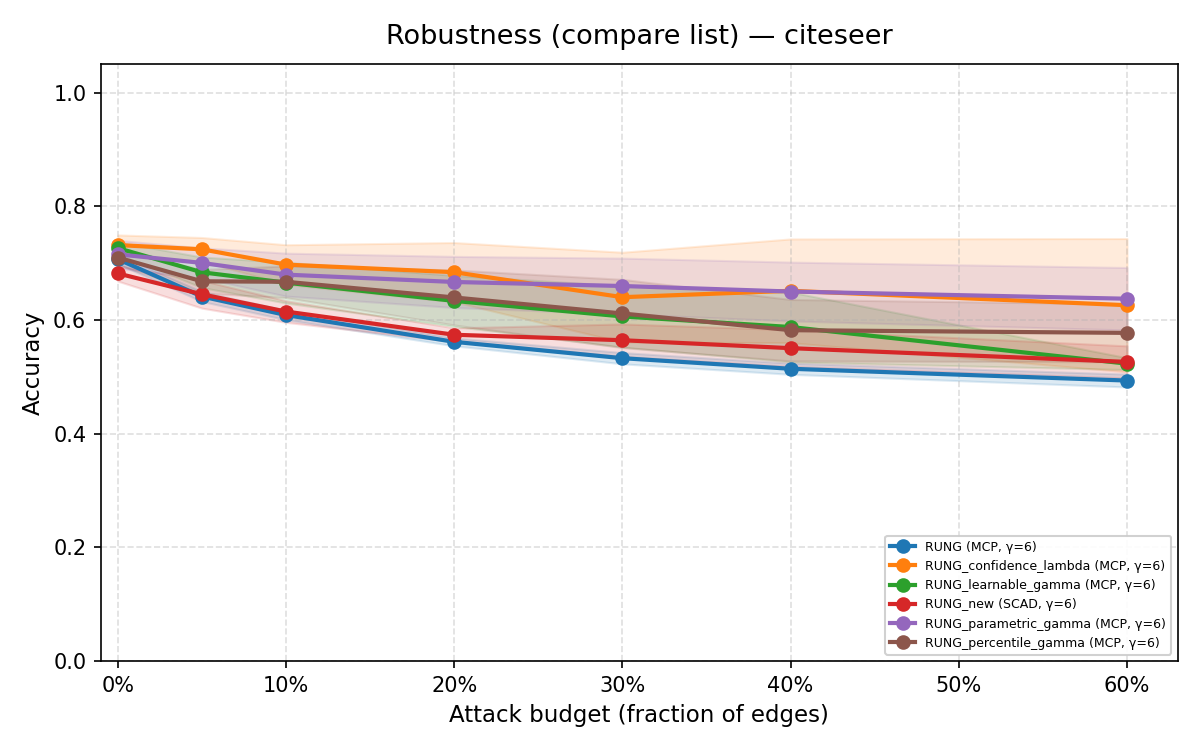
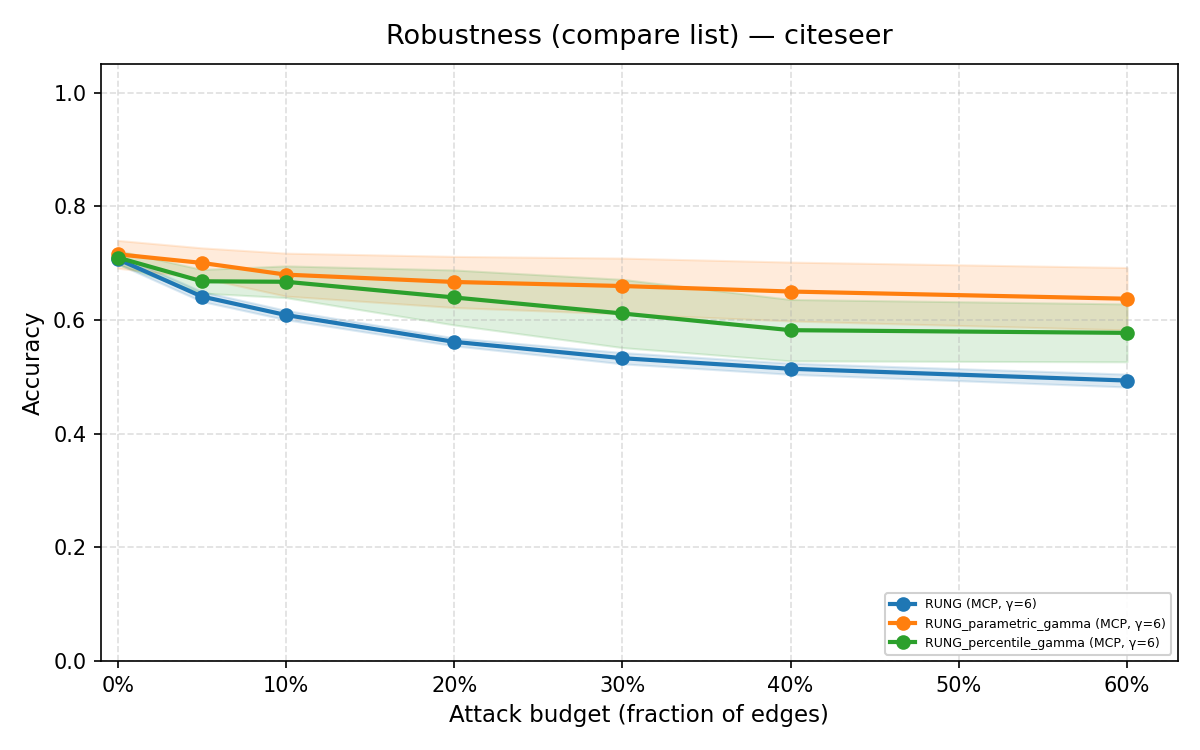
fix plot compare

Changed region(s): [[0.0925, 0.3067, 0.9558, 0.5213], [0.74, 0.7053, 0.9867, 0.8587]]

diff --git a/plot_logs.py b/plot_logs.py
@@ -67,21 +67,33 @@ _RE_ATK_LINE   = re.compile(r"^\s*Attacked:\s*([\d.]+)[^±]*±([\d.]+)", re.UNIC
 # ---------------------------------------------------------------------------
 
 def _attack_label(stem: str) -> str:
+    """Convert an attack log filename stem into a readable label.
+
+    Supported formats:
+      - RUNG_normMCP_gamma6.0
+      - RUNG_new_SCAD_normSCAD_gamma6.0
+      - RUNG_parametric_gamma_MCP_6.0
+      - (other similar <model>_<norm>_<gamma> patterns)
+
+    The returned label is like:
+      RUNG (MCP, γ=6.0)
+      RUNG_new_SCAD (SCAD, γ=6.0)
     """
-    Convert an attack log filename stem such as
-        RUNG_normMCP_gamma6.0
-        RUNG_new_SCAD_normSCAD_gamma6.0
-    into a short readable label:
-        RUNG (MCP, γ=6.0)
-        RUNG_new_SCAD (SCAD, γ=6.0)
-    """
+    # Preferred format: <model>_norm<norm>_gamma<gamma>
     m = re.match(r"^(.+?)_norm(.+?)_gamma([\d.]+)$", stem)
     if m:
         model, norm, gamma = m.group(1), m.group(2), m.group(3)
-        # drop trailing .0 from gamma for display
-        gamma_str = gamma.rstrip("0").rstrip(".")
-        return f"{model} ({norm}, γ={gamma_str})"
-    return stem   # fallback: use raw stem
+    else:
+        # Fallback format: <model>_<norm>_<gamma>
+        parts = stem.rsplit("_", 2)
+        if len(parts) == 3:
+            model, norm, gamma = parts
+        else:
+            return stem   # unknown format; keep raw
+
+    # drop trailing .0 from gamma for display
+    gamma_str = gamma.rstrip("0").rstrip(".")
+    return f"{model} ({norm}, γ={gamma_str})"
 
 
 def _clean_label(stem: str) -> str:
@@ -364,13 +376,19 @@ def _read_compare_list(path: Path) -> list[str]:
 
 
 def _filter_labels(labels: list[str], queries: list[str]) -> list[str]:
-    """Return subset of labels that match any query (case-insensitive substring)."""
+    """Return subset of labels that match any query.
+
+    Matching is done against the *base model name* (label text before the first " ("),
+    which corresponds to the model key used in logs. Queries are treated as case-\
+    insensitive exact matches against that base name.
+    """
     if not queries:
         return []
+    query_set = {q.lower() for q in queries}
     out = []
     for lbl in labels:
-        lower = lbl.lower()
-        if any(q.lower() in lower for q in queries):
+        base = lbl.split(" (", 1)[0].strip().lower()
+        if base in query_set:
             out.append(lbl)
     return out
 
